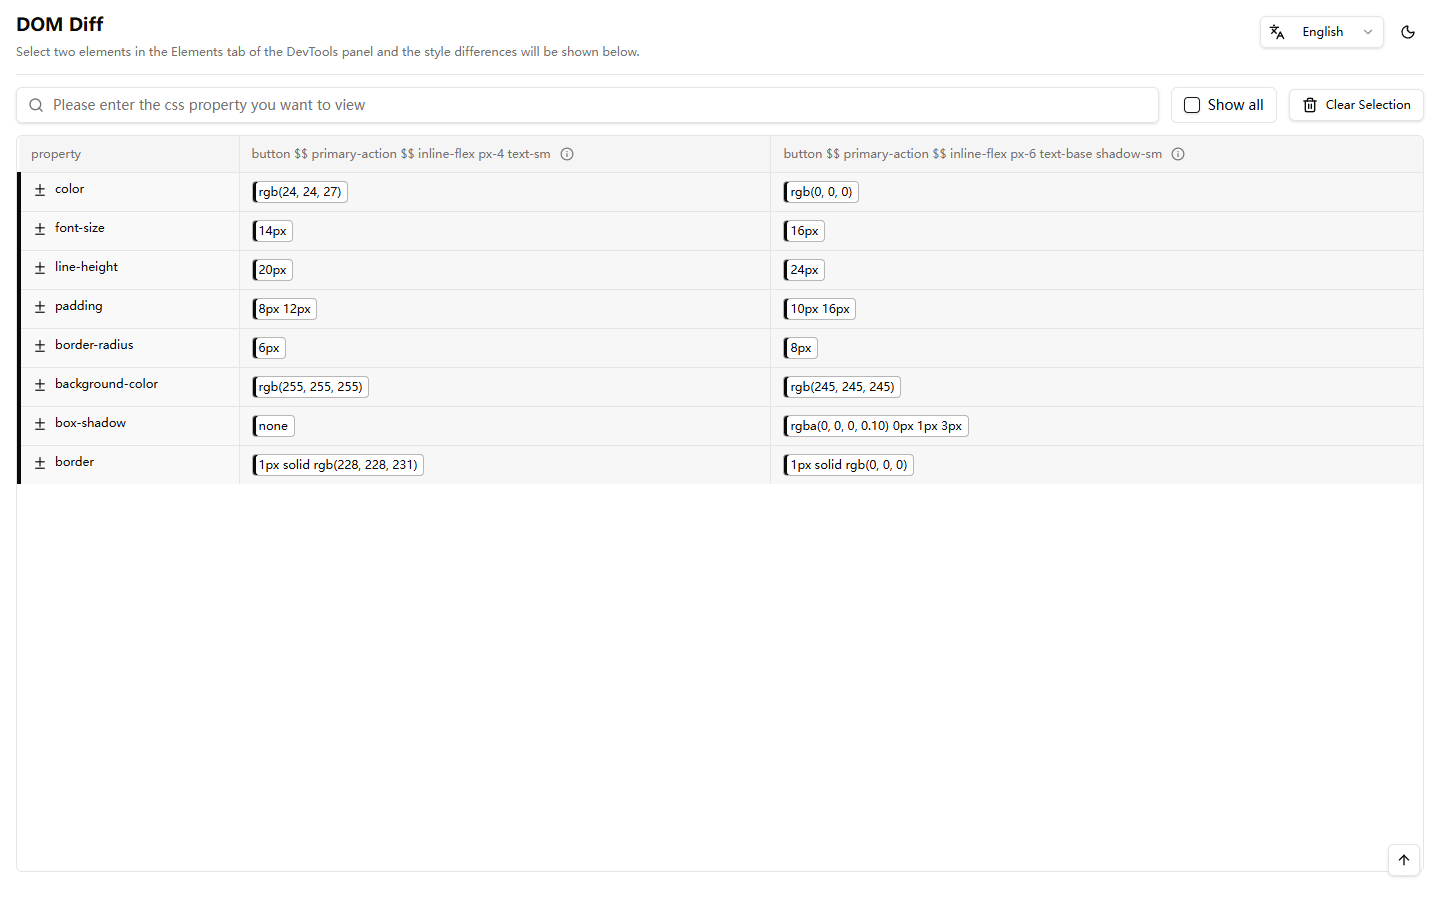
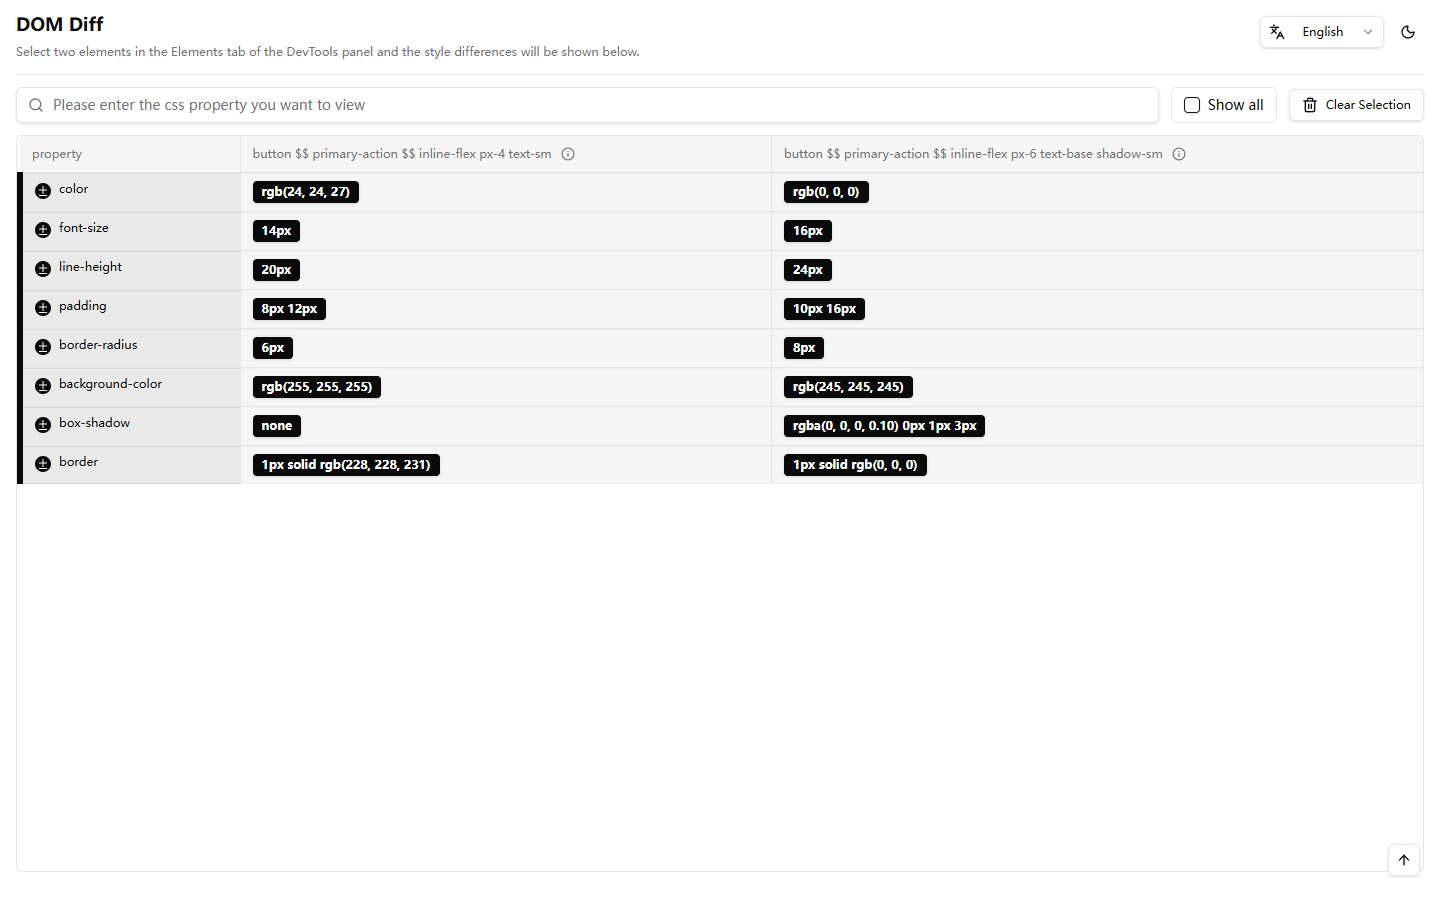
fix(ui): strengthen diff row contrast

diff --git a/entrypoints/devtools-panel/devtools-panel.vue b/entrypoints/devtools-panel/devtools-panel.vue
@@ -226,14 +226,22 @@ const PropertyNode = defineComponent({
               <tr
                 v-for="row in renderCssDiffs"
                 :key="row.property"
-                class="border-l-4 border-b border-border transition-colors last:border-b-0"
+                class="border-l-[6px] border-b border-border transition-colors last:border-b-0"
                 :class="row.isDiff
-                  ? 'border-l-foreground bg-muted/60 text-foreground'
+                  ? 'border-l-foreground bg-muted/90 text-foreground shadow-[inset_0_1px_0_hsl(var(--foreground)/0.08),inset_0_-1px_0_hsl(var(--foreground)/0.08)]'
                   : 'border-l-transparent bg-background text-muted-foreground'"
               >
-                <td class="w-[220px] px-3 py-2 align-top font-medium">
+                <td
+                  class="w-[220px] px-3 py-2 align-top font-medium"
+                  :class="row.isDiff ? 'bg-foreground/5 text-foreground' : ''"
+                >
                   <div class="flex items-start gap-2">
-                    <Diff v-if="row.isDiff" class="mt-0.5 h-3.5 w-3.5 shrink-0 text-foreground" />
+                    <span
+                      v-if="row.isDiff"
+                      class="mt-0.5 inline-flex h-4 w-4 shrink-0 items-center justify-center rounded-full bg-foreground text-background"
+                    >
+                      <Diff class="h-3 w-3" />
+                    </span>
                     <span v-else class="h-3.5 w-3.5 shrink-0" />
                     <PropertyNode :text="row.property" />
                   </div>
@@ -242,12 +250,12 @@ const PropertyNode = defineComponent({
                   v-for="el in selectedEl"
                   :key="`${row.property}-${el.valueType}`"
                   class="group min-w-[240px] cursor-copy border-l border-border px-3 py-2 align-top transition-colors hover:bg-accent hover:text-accent-foreground"
-                  :class="row.isDiff ? 'bg-muted/40 font-medium text-foreground' : ''"
+                  :class="row.isDiff ? 'bg-muted/70 font-medium text-foreground' : ''"
                   @click="handleCopyStyle(row, el.valueType)"
                 >
                   <div class="flex items-start justify-between gap-3">
                     <span
-                      class="break-all rounded-sm border px-1.5 py-0.5"
+                      class="break-all rounded-sm border px-2 py-1 leading-none"
                       :class="getDiffValueClass(row, el.valueType)"
                     >
                       {{ row[el.valueType] }}

diff --git a/entrypoints/devtools-panel/utils/diff.ts b/entrypoints/devtools-panel/utils/diff.ts
@@ -16,12 +16,12 @@ export function getDiffValueClass(row: CssDiffsType, valueType: 'left' | 'right'
   const tone = getDiffValueTone(row, valueType)
 
   if (tone === 'changed') {
-    return 'border-foreground/30 bg-background text-foreground shadow-[inset_3px_0_0_hsl(var(--foreground))]'
+    return 'border-foreground bg-foreground font-semibold text-background shadow-sm'
   }
 
   if (tone === 'missing') {
-    return 'border-dashed border-foreground/40 bg-muted text-muted-foreground shadow-[inset_3px_0_0_hsl(var(--muted-foreground))]'
+    return 'border-dashed border-foreground bg-background font-semibold text-foreground shadow-[inset_0_0_0_1px_hsl(var(--foreground))]'
   }
 
-  return 'border-transparent text-muted-foreground'
+  return 'border-transparent bg-transparent text-muted-foreground'
 }

diff --git a/entrypoints/devtools-panel/utils/diff.node-test.ts b/entrypoints/devtools-panel/utils/diff.node-test.ts
@@ -1,6 +1,6 @@
 import assert from 'node:assert/strict'
 import { describe, it } from 'node:test'
-import { getDiffValueTone, UNDEFINED_STYLE_VALUE } from './diff.ts'
+import { getDiffValueClass, getDiffValueTone, UNDEFINED_STYLE_VALUE } from './diff.ts'
 
 describe('diff utilities', () => {
   it('marks both sides of a changed row as changed', () => {
@@ -8,6 +8,8 @@ describe('diff utilities', () => {
 
     assert.equal(getDiffValueTone(row, 'left'), 'changed')
     assert.equal(getDiffValueTone(row, 'right'), 'changed')
+    assert.match(getDiffValueClass(row, 'left'), /\bbg-foreground\b/)
+    assert.match(getDiffValueClass(row, 'right'), /\bbg-foreground\b/)
   })
 
   it('marks an undefined side as missing', () => {
@@ -15,6 +17,7 @@ describe('diff utilities', () => {
 
     assert.equal(getDiffValueTone(row, 'left'), 'missing')
     assert.equal(getDiffValueTone(row, 'right'), 'changed')
+    assert.match(getDiffValueClass(row, 'left'), /\bborder-dashed\b/)
   })
 
   it('keeps equal rows visually muted', () => {